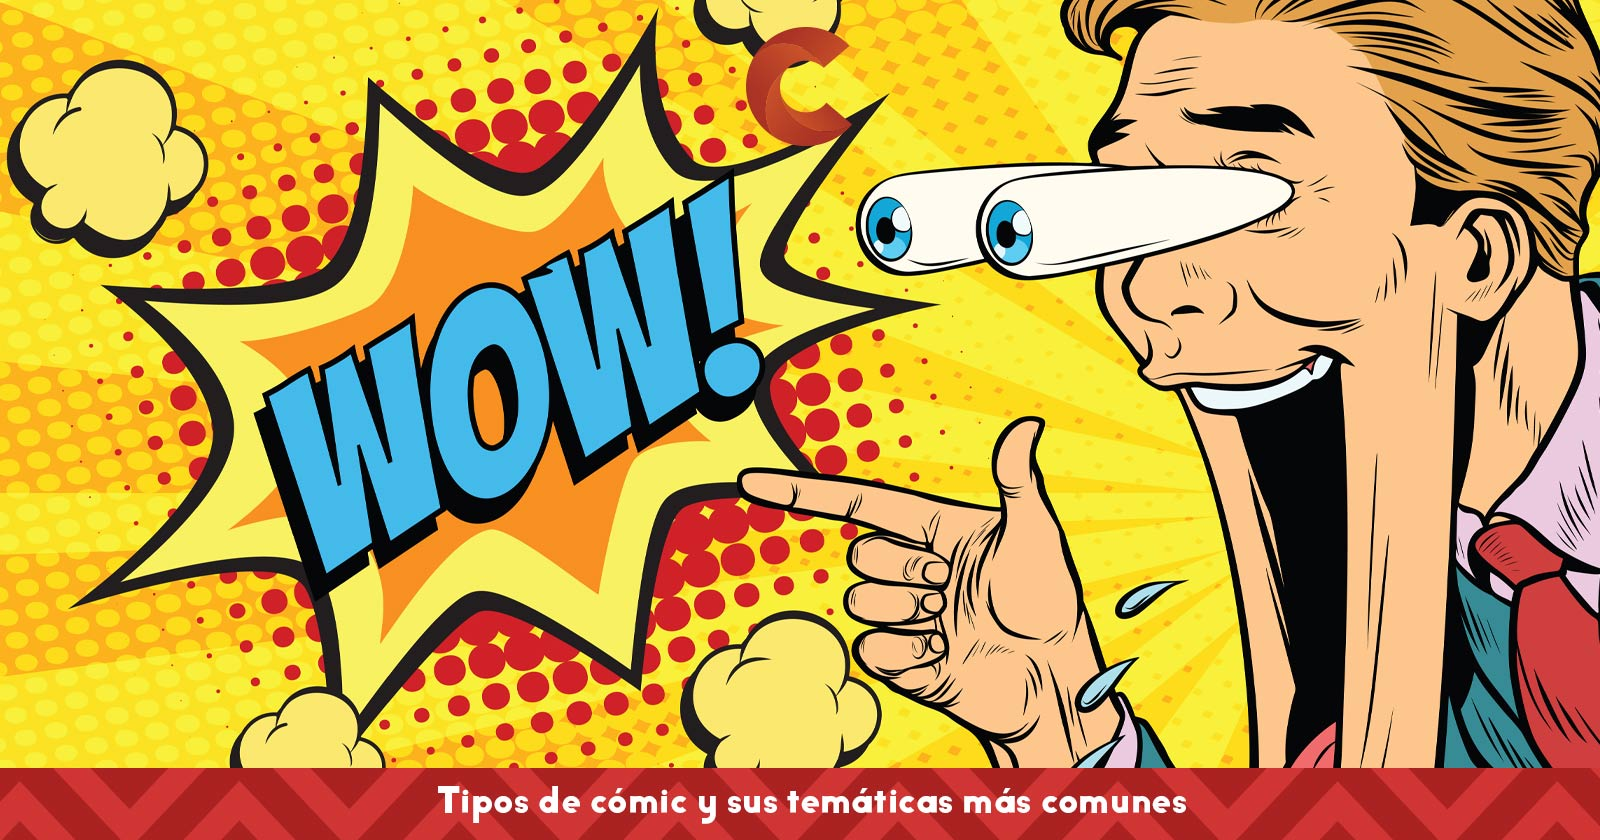
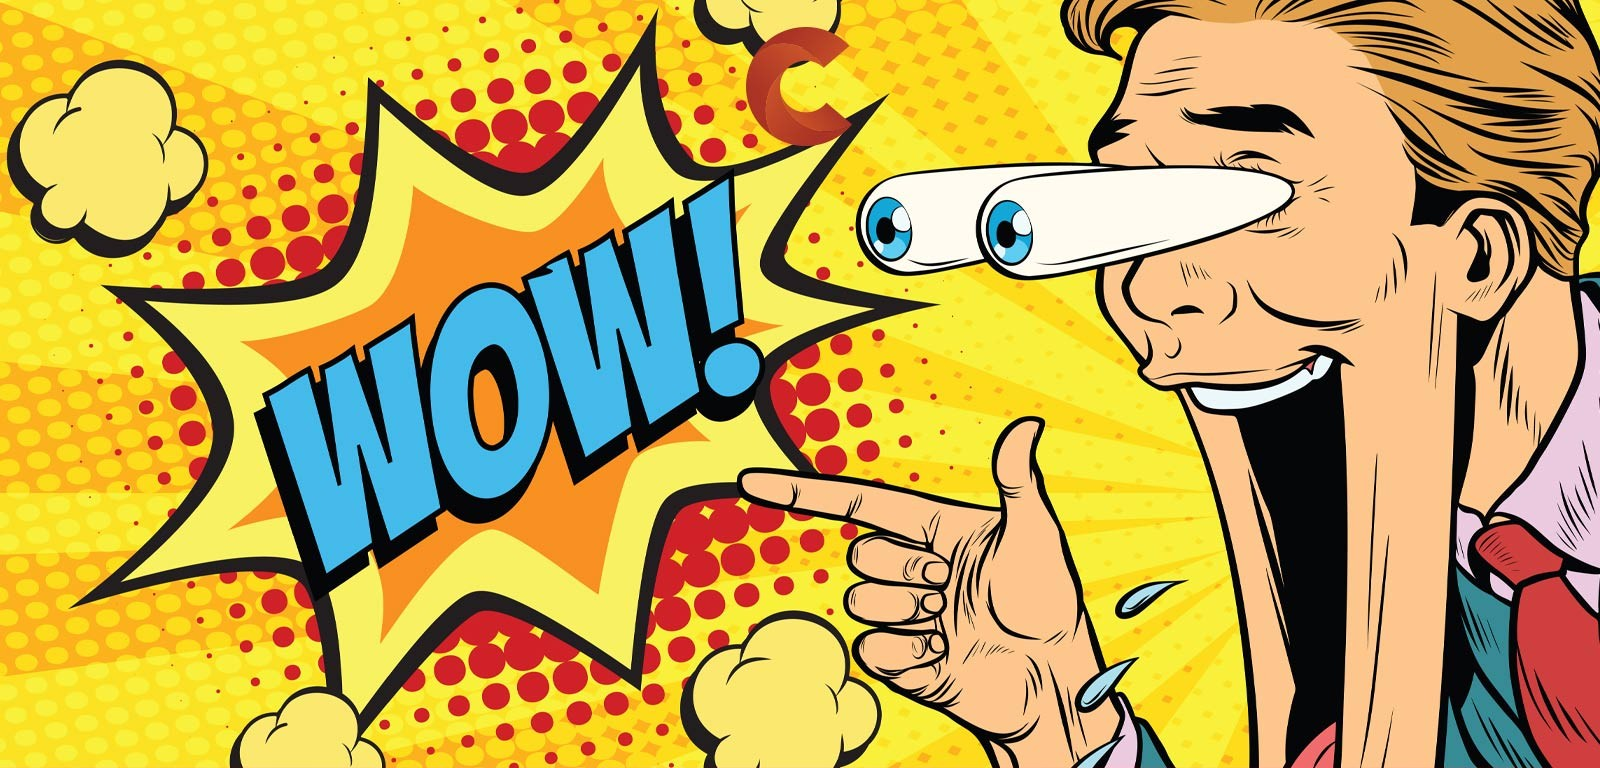
pequeñas correciones novedades y footer js y css

diff --git a/js/script.js b/js/script.js
@@ -15,7 +15,7 @@ var novedades = [
         titulo: "Superman en el planeta Krypton.",
         autor: "John Byrne, Mike Mignola y Jerry Ordway",
         precio: 16.40,
-        disponible: true,
+        disponible: false,
         novedad: true,
         imagen: "media/imagenes/Accion1.jpg",
         sinopsis: "Superman regresa al pasado y a su planeta natal, Krypton, por un error en la linea temporal. Una vez allí descubrirá sus origenes y conocerá a personajes tan importantes como Jor-el, el cintífico que intentó salvar Krypton pero nadie escuchó."
